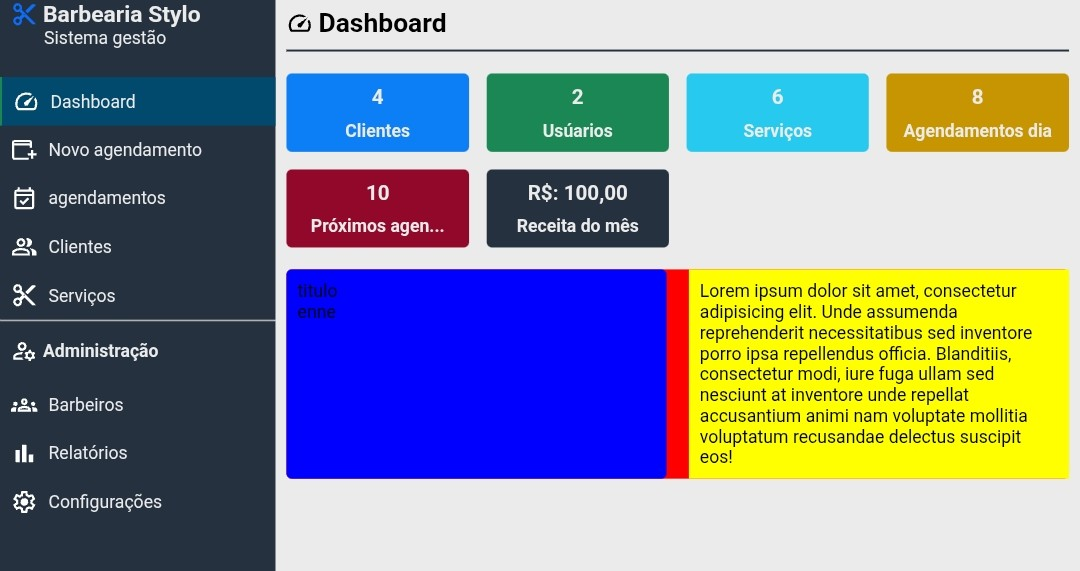
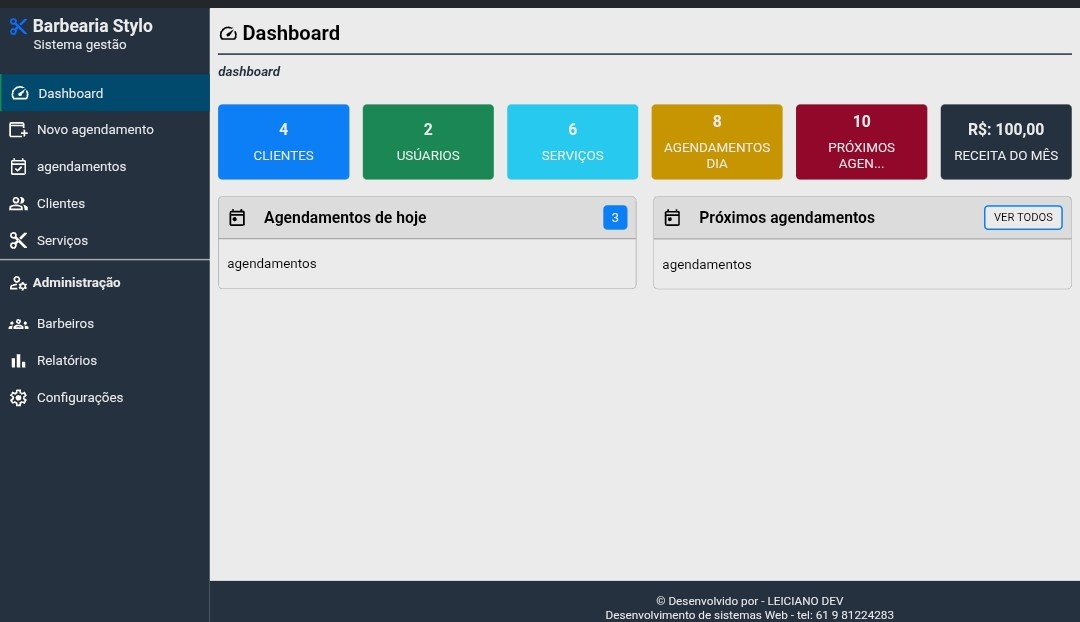
Atualizacao dashboard

diff --git a/assets/css/dashboard.css b/assets/css/dashboard.css
@@ -4,45 +4,28 @@
   box-sizing: border-box;
 }
 :root {
-  /* CSS HEX */
---#fef08e: #fef08e;
+/* CSS HEX */
+--cor-amarelo-claro: #fef08e;
+--cor-cinza: #25313f;
+--cor-cinza-claro: #DCDCDC;
+--cor-cinza-escuro: #A9A9A9;
 --cor-amarelo: #c79502;
+--cor-azul-claro: #28c9ef;
 --cor-azul-escuro: #0c7ef6;
 --cor-vermelho: #91082a;
 --cor-green: #1a8754;
 --cor-fundo: #ebebec;
 --cor-fundo-header: #25313f;
---#28c9ef: #074756;
---#db3848: #db3848;
-
-/* SCSS HEX */
-$#fef08e: #fef08e;
-$#fec10e: #fec10e;
-$#0c7ef6: #0c7ef6;
-$#91082a: #91082a;
-$#1a8754: #1a8754;
-$#ebebec: #ebebec;
---cor-cinza: #25313f;
---cor-azul-claro: #28c9ef;
-$#db3848: #db3848;
-
-/* SCSS RGB */
-$#fef08e: rgba(254,240,142,1);
-$#fec10e: rgba(254,193,14,1);
 --cor-mark-hover-menu: #01496d;
-$#91082a: rgba(145,8,42,1);
-$#1a8754: rgba(26,135,84,1);
-$#ebebec: rgba(235,235,236,1);
-$#25313f: rgba(37,49,63,1);
-$#28c9ef: rgba(40,201,239,1);
-$#db3848: rgba(219,56,72,1);
-
+--cor-vermelho-claro: #db3848;
 }
+
 html {
   font-size: 62.5%;
 }
 body {
   font-size: 1.6rem;
+  font-weight: 400;
   font-family: "Arial", Sans-Serif;
   background: var(--cor-fundo);
   min-height: 100svh;
@@ -177,6 +160,10 @@ body {
   grid-template-columns: repeat(auto-fit, minmax(150px, 1fr));
   gap: 1em;
 }
+.cards h4 {
+  font-weight: 400;
+  text-transform: uppercase;
+}
 .card-azul {
   background: var(--cor-azul-escuro);
   border-radius: 0.5rem;
@@ -251,20 +238,56 @@ body {
 }
 /* CARD2 */
 .card2 {
-  background: red;
   display: grid;
   grid-template-columns: repeat(2, 1fr);
   gap: 2rem;
   border-radius: 0.5rem 0.5rem;
 }
-.card2-hero1 {
-  background: blue;
-  padding: 1rem;
+.card2-hero1, .card2-hero2 {
+  margin: 0;
+  padding: 0;
   border-radius: 0.5rem 0.5rem;
 }
-.card2-hero2 {
-  background: yellow;
+.card2-hero1-titulo {
+  background: var(--cor-cinza-claro);
+  display: flex;
+  align-items: center;
+  justify-content: space-between;
+  gap: 1rem;
   padding: 1rem;
+  border-radius: 0.5rem 0.5rem 0 0;
+  border: 0.1rem solid var(--cor-cinza-escuro);
+}
+.card2-hero1-titulo h3 {
+  display: flex;
+  justify-content: center;
+  align-items: center;
+  gap: 2rem;
+}
+.card2-hero1-titulo span {
+  background: var(--cor-azul-escuro);
+  color: var(--cor-fundo);
+  padding: 0.5rem 1rem;
+  border-radius: 0.5rem;
+}
+.card-agendamentos {
+  background: transparent;
+  border: 0.1rem solid var(--cor-cinza-escuro);
+  padding: 2rem 1rem;
+  border-radius: 0 0 0.5rem 0.5rem;
+}
+.card2-hero2 button{
+  background: var(--cor-fundo);
+  padding: 0.5rem 1rem;
+  border: 0.2rem solid var(--cor-azul-escuro);
+  outline: none;
+  border-radius: 0.5rem;
+  cursor: pointer;
+  text-transform: uppercase;
+}
+.card2-hero2 button:hover {
+  background: var(--cor-azul-escuro);
+  color: var(--cor-fundo);
 }
 /*footer*/
 .footer {

diff --git a/dashboard.php b/dashboard.php
@@ -39,13 +39,20 @@
         <!--INICIO CARD2-->
         <article class="card2">
           <div class="card2-hero1">
-            <div>
-              titulo
+            <div class="card2-hero1-titulo">
+              <h3><img src="assets/icons/dia.svg" alt="dia">Agendamentos de hoje</h3><span>3</span>
             </div>
-            enne
+            <div class="card-agendamentos">
+              agendamentos
+            </div>
           </div>
           <div class="card2-hero2">
-            Lorem ipsum dolor sit amet, consectetur adipisicing elit. Unde assumenda reprehenderit necessitatibus sed inventore porro ipsa repellendus officia. Blanditiis, consectetur modi, iure fuga ullam sed nesciunt at inventore unde repellat accusantium animi nam voluptate mollitia voluptatum recusandae delectus suscipit eos!
+            <div class="card2-hero1-titulo">
+              <h3><img src="assets/icons/dia.svg" alt="dia">Próximos agendamentos</h3><button>Ver todos</button>
+            </div>
+            <div class="card-agendamentos">
+              agendamentos
+            </div>
           </div>
         </article>
         <!--FIM CARD2-->
